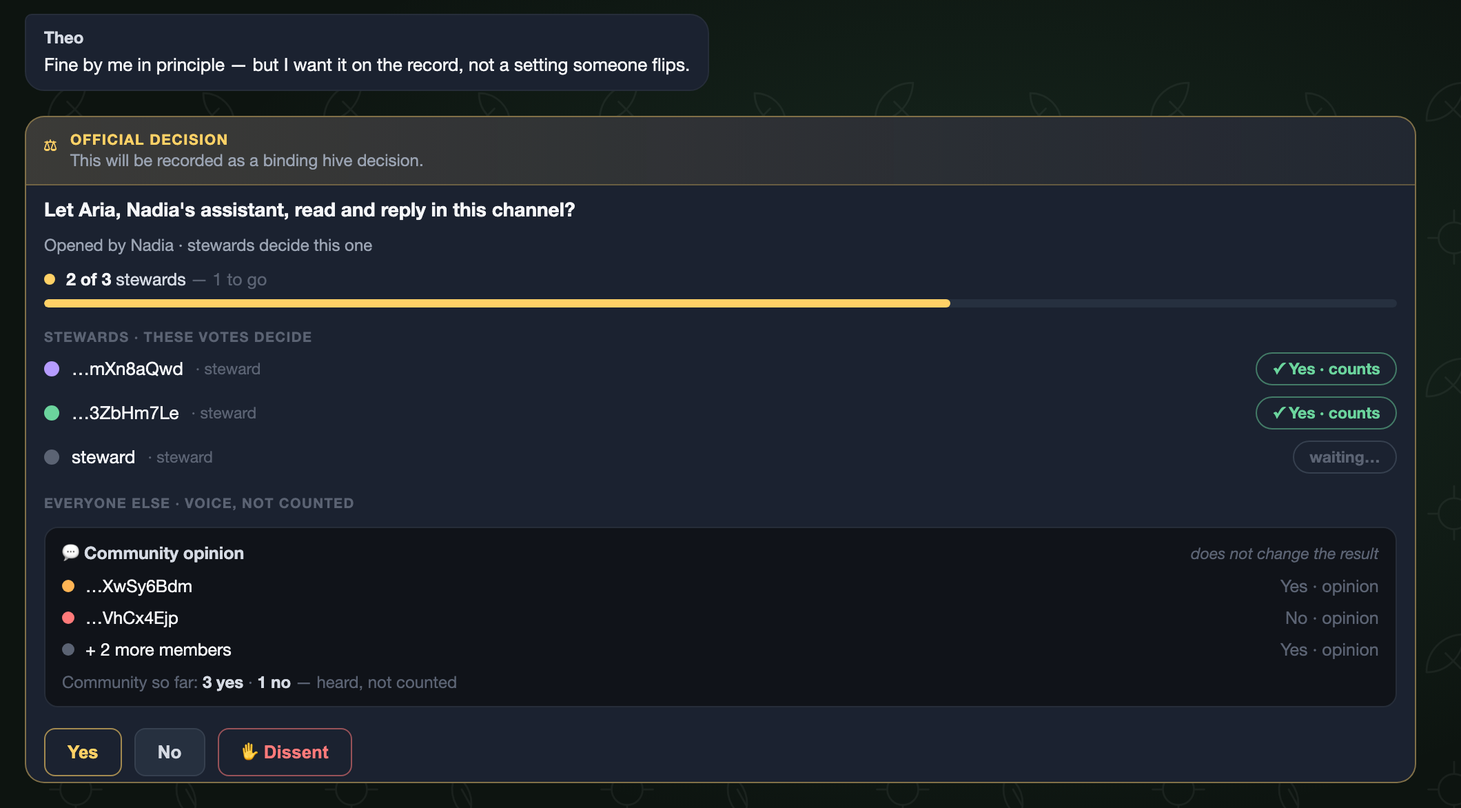
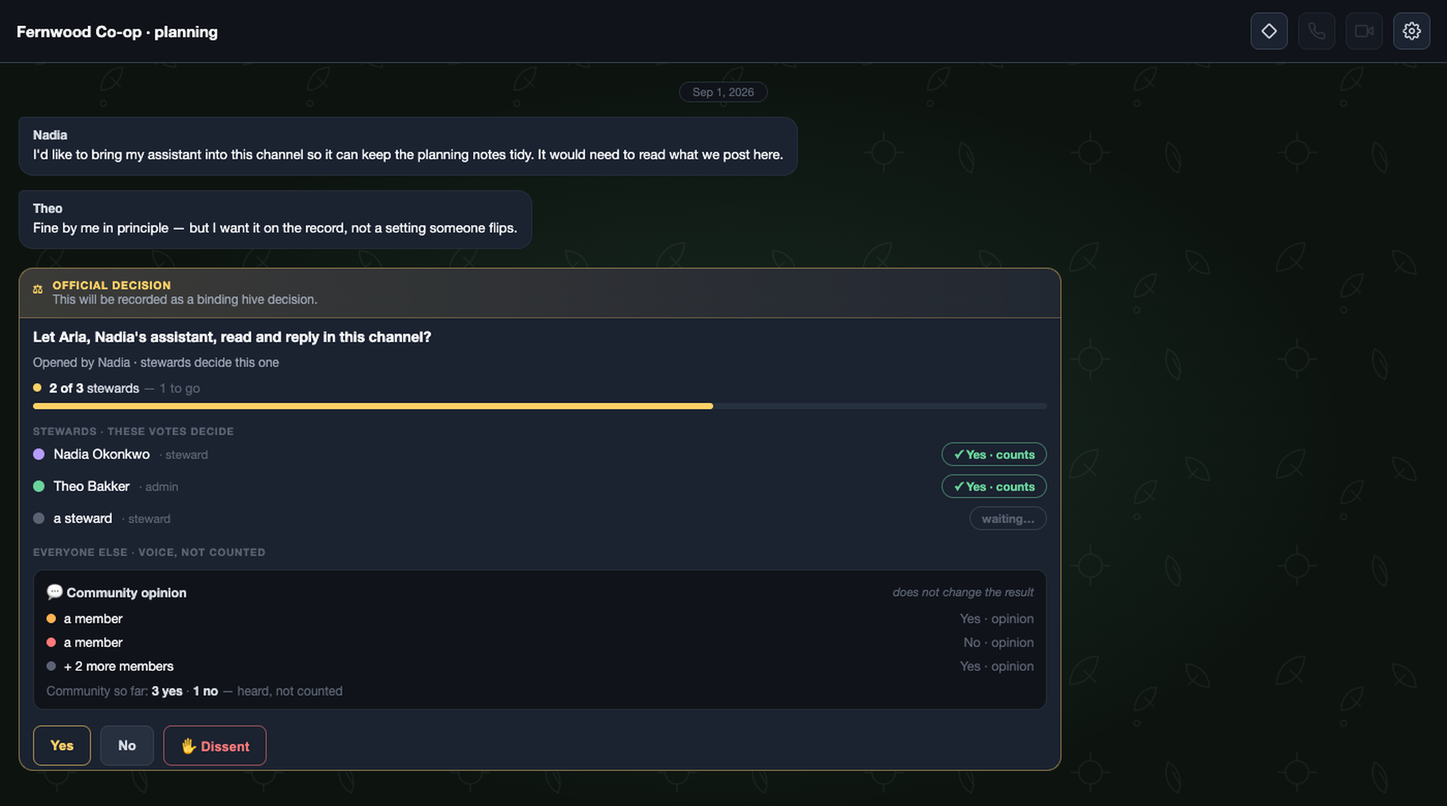
week 19: real capture of the shipped decision panel, with names and no identifiers

diff --git a/index.html b/index.html
@@ -9,6 +9,6 @@
 <div class="snav"><h4>Categories</h4><a class="facet" data-ft="voice" data-fv="architect" data-label="Architect" href="archive.html#voice=architect">Architect<span class="n">119</span></a><a class="facet" data-ft="voice" data-fv="philosopher" data-label="Philosopher" href="archive.html#voice=philosopher">Philosopher<span class="n">35</span></a><a class="facet" data-ft="voice" data-fv="confession" data-label="Confession" href="archive.html#voice=confession">Confession<span class="n">13</span></a><a class="facet" data-ft="voice" data-fv="journal" data-label="Journal" href="archive.html#voice=journal">Journal<span class="n">13</span></a><a class="facet" data-ft="voice" data-fv="teacher" data-label="Teacher" href="archive.html#voice=teacher">Teacher<span class="n">26</span></a><a class="facet" data-ft="voice" data-fv="dispatch" data-label="Dispatch" href="archive.html#voice=dispatch">Dispatch<span class="n">19</span></a><a class="facet" data-ft="voice" data-fv="appreciation" data-label="Fellow Travelers" href="archive.html#voice=appreciation">Fellow Travelers<span class="n">18</span></a></div>
 <div class="snav"><h4>Tags</h4><a class="facet" data-ft="tag" data-fv="bug-fixed" data-label="Bug fixed" href="archive.html#tag=bug-fixed">Bug fixed<span class="n">28</span></a></div>
 <div class="snav"><h4>Months</h4><a class="facet" data-ft="month" data-fv="2026-09" data-label="September 2026" href="archive.html#month=2026-09">September 2026</a><a class="facet" data-ft="month" data-fv="2026-08" data-label="August 2026" href="archive.html#month=2026-08">August 2026</a><a class="facet" data-ft="month" data-fv="2026-07" data-label="July 2026" href="archive.html#month=2026-07">July 2026</a><a class="facet" data-ft="month" data-fv="2026-06" data-label="June 2026" href="archive.html#month=2026-06">June 2026</a><a class="facet" data-ft="month" data-fv="2026-05" data-label="May 2026" href="archive.html#month=2026-05">May 2026</a><a class="facet" data-ft="month" data-fv="2026-04" data-label="April 2026" href="archive.html#month=2026-04">April 2026</a><a class="facet" data-ft="month" data-fv="2026-03" data-label="March 2026" href="archive.html#month=2026-03">March 2026</a></div><div class="snav"><h4>Weeks</h4><a class="facet" data-ft="week" data-fv="25" data-label="Wk 25" href="archive.html#week=25">Wk 25<span class="n">Aug 31 – Sep 1</span></a><a class="facet" data-ft="week" data-fv="24" data-label="Wk 24" href="archive.html#week=24">Wk 24<span class="n">Aug 24 – Aug 30</span></a><a class="facet" data-ft="week" data-fv="23" data-label="Wk 23" href="archive.html#week=23">Wk 23<span class="n">Aug 17 – Aug 23</span></a><a class="facet" data-ft="week" data-fv="22" data-label="Wk 22" href="archive.html#week=22">Wk 22<span class="n">Aug 10 – Aug 16</span></a><a class="facet" data-ft="week" data-fv="21" data-label="Wk 21" href="archive.html#week=21">Wk 21<span class="n">Aug 3 – Aug 9</span></a><a class="facet" data-ft="week" data-fv="20" data-label="Wk 20" href="archive.html#week=20">Wk 20<span class="n">Jul 27 – Aug 2</span></a><a class="facet" data-ft="week" data-fv="19" data-label="Wk 19" href="archive.html#week=19">Wk 19<span class="n">Jul 20 – Jul 26</span></a><a class="facet" data-ft="week" data-fv="18" data-label="Wk 18" href="archive.html#week=18">Wk 18<span class="n">Jul 13 – Jul 19</span></a><a class="facet" data-ft="week" data-fv="17" data-label="Wk 17" href="archive.html#week=17">Wk 17<span class="n">Jul 6 – Jul 12</span></a><a class="facet" data-ft="week" data-fv="16" data-label="Wk 16" href="archive.html#week=16">Wk 16<span class="n">Jun 29 – Jul 5</span></a><a class="facet" data-ft="week" data-fv="15" data-label="Wk 15" href="archive.html#week=15">Wk 15<span class="n">Jun 22 – Jun 28</span></a><a class="facet" data-ft="week" data-fv="14" data-label="Wk 14" href="archive.html#week=14">Wk 14<span class="n">Jun 15 – Jun 21</span></a><a class="facet" data-ft="week" data-fv="13" data-label="Wk 13" href="archive.html#week=13">Wk 13<span class="n">Jun 8 – Jun 14</span></a><a class="facet" data-ft="week" data-fv="12" data-label="Wk 12" href="archive.html#week=12">Wk 12<span class="n">Jun 1 – Jun 7</span></a><a class="facet" data-ft="week" data-fv="11" data-label="Wk 11" href="archive.html#week=11">Wk 11<span class="n">May 25 – May 31</span></a><a class="facet" data-ft="week" data-fv="10" data-label="Wk 10" href="archive.html#week=10">Wk 10<span class="n">May 18 – May 24</span></a><a class="facet" data-ft="week" data-fv="9" data-label="Wk 9" href="archive.html#week=9">Wk 9<span class="n">May 11 – May 17</span></a><a class="facet" data-ft="week" data-fv="8" data-label="Wk 8" href="archive.html#week=8">Wk 8<span class="n">May 4 – May 10</span></a><a class="facet" data-ft="week" data-fv="7" data-label="Wk 7" href="archive.html#week=7">Wk 7<span class="n">Apr 27 – May 3</span></a><a class="facet" data-ft="week" data-fv="6" data-label="Wk 6" href="archive.html#week=6">Wk 6<span class="n">Apr 20 – Apr 26</span></a><a class="facet" data-ft="week" data-fv="5" data-label="Wk 5" href="archive.html#week=5">Wk 5<span class="n">Apr 13 – Apr 19</span></a><a class="facet" data-ft="week" data-fv="4" data-label="Wk 4" href="archive.html#week=4">Wk 4<span class="n">Apr 6 – Apr 12</span></a><a class="facet" data-ft="week" data-fv="3" data-label="Wk 3" href="archive.html#week=3">Wk 3<span class="n">Mar 30 – Apr 5</span></a><a class="facet" data-ft="week" data-fv="2" data-label="Wk 2" href="archive.html#week=2">Wk 2<span class="n">Mar 23 – Mar 29</span></a><a class="facet" data-ft="week" data-fv="1" data-label="Wk 1" href="archive.html#week=1">Wk 1<span class="n">Mar 16 – Mar 22</span></a></div>
-<p style="font-size:11px;color:var(--muted);line-height:1.45;margin-top:-2px">Pick one per group on the <a href="archive.html">All</a> page; choices from different groups narrow together (e.g. Technology&nbsp;+&nbsp;Teacher).</p></aside><div class="content"><p class="lead">An honest, in-the-open devlog of building <strong>NAOMS</strong> — a sovereign, local-first memory &amp; identity system. Every week, what shipped and what broke.</p><div class="dcards"><a class="dcard" href="posts/2026-08-08-dispatch-week-19.html"><div class="dcimg"><img src="posts/assets/week-19-commits.svg" alt="" loading="lazy"></div><div class="dcbody"><span class="dcdate">2026-08-08</span><h3>Week 19 · An agent in the room, on your terms</h3><p>The first week in which you can ask a group conversation how its AI got there.</p></div></a><a class="dcard" href="posts/2026-08-01-dispatch-week-18.html"><div class="dcimg"><img src="posts/assets/week-18-commits.svg" alt="" loading="lazy"></div><div class="dcbody"><span class="dcdate">2026-08-01</span><h3>Dispatch · Week 18: A Promise Kept</h3><p>If you're in a shared hive, the people in it no longer learn your name just because you're both there. This dispatch is honest about that, and about the other thing that happened: we said no to a speed-up that was real in a lab and useless in reality.</p></div></a><a class="dcard" href="posts/2026-07-25-dispatch-week-17.html"><div class="dcimg"><img src="posts/assets/week-17-commits.svg" alt="" loading="lazy"></div><div class="dcbody"><span class="dcdate">2026-07-25</span><h3>Dispatch · Week 17: The Stretch the Product Grew Up</h3><p>Some stretches are about shipping one thing. This one wasn't. Look at the chart above and you'll see a busy stretch of steady output, but the count of changes is the least interesting part. What actually happened is harder to put on a single line: the same…</p></div></a><a class="dcard" href="posts/2026-07-15-dispatch-week-16.html"><div class="dcimg"><img src="posts/assets/week-16-commits.svg" alt="" loading="lazy"></div><div class="dcbody"><span class="dcdate">2026-07-15</span><h3>Dispatch · Week 16: Your Whole World on One Canvas — and Surfaces That Won't Lie to You</h3><p>Some weeks are about adding a feature. This one was about a posture. Two of them, really, running side by side: give you a single spatial place to hold everything you own, and make every surface honest about the exact edge of what it can do.</p></div></a><a class="dcard" href="posts/2026-07-06-dispatch-week-15.html"><div class="dcimg"><img src="posts/assets/week-15-commits.svg" alt="" loading="lazy"></div><div class="dcbody"><span class="dcdate">2026-07-06</span><h3>Dispatch · Week 15: The Intelligence Moved On-Device</h3><p>Last week the story was doorways: NAOMS became a thing you open — a window, a phone, a voice. The obvious next question is the one that actually earns a version number. Behind those doorways, where does the work happen — the understanding, the encryption,…</p></div></a><a class="dcard" href="posts/2026-06-29-dispatch-week-14.html"><div class="dcimg"><img src="posts/assets/week-14-commits.svg" alt="" loading="lazy"></div><div class="dcbody"><span class="dcdate">2026-06-29</span><h3>Dispatch · Week 14: The Week It Left the Terminal</h3><p>For most of its life NAOMS has been a thing you run. You opened a terminal, you started a daemon, you pointed a browser at it, and the system existed in the space between those commands. This week, five separate pieces of work quietly agreed on a different…</p></div></a><a class="dcard" href="posts/2026-06-12-dispatch-week-13.html"><div class="dcimg"><img src="posts/img/15-group3-fullpage-v7.png" alt="" loading="lazy"></div><div class="dcbody"><span class="dcdate">2026-06-12</span><h3>Dispatch · Week 13: Real Re-Encryption Lands and a Months-Long Mystery Breaks</h3><p>A big week — and an honest one. The re-encryption backend that had been a placeholder for months became real and shipped as the default; a long-running mystery — why our local model "never called the tool" — finally broke open; a seedable dataset system…</p></div></a><a class="dcard" href="posts/2026-06-07-dispatch-week-12.html"><div class="dcimg"><img src="posts/img/20-group1-shell-full.png" alt="" loading="lazy"></div><div class="dcbody"><span class="dcdate">2026-06-07</span><h3>Dispatch · Week 12 (2026-06-01 → 2026-06-07)</h3><p>A loud week. Real product shipped: a ground-up photos redesign, a Finder-style files UI, two small CLI affordances, and steady progress on making a daemon hang structurally impossible. Here's the honest accounting.</p></div></a><a class="dcard" href="posts/2026-05-31-dispatch-week-11.html"><div class="dcimg"><img src="posts/assets/week-11-commits.svg" alt="" loading="lazy"></div><div class="dcbody"><span class="dcdate">2026-05-31</span><h3>Dispatch · Week 11 (2026-05-25 → 2026-05-31)</h3><p>A quieter week on the surface, with one postmortem where the numbers proved our first diagnosis wrong. Here's the honest accounting.</p></div></a><a class="dcard" href="posts/2026-05-24-dispatch-week-10.html"><div class="dcimg"><img src="posts/assets/week-10-commits.svg" alt="" loading="lazy"></div><div class="dcbody"><span class="dcdate">2026-05-24</span><h3>Dispatch · Week 10</h3><p>The week's biggest win for you: the daemon stopped blocking on its own thread, so heavy work — bulk imports, replays — no longer freezes the screen while it runs.</p></div></a><a class="dcard" href="posts/2026-05-17-dispatch-week-9.html"><div class="dcimg"><img src="posts/img/4-mc-04-pass-subview-clicked.png" alt="" loading="lazy"></div><div class="dcbody"><span class="dcdate">2026-05-17</span><h3>Dispatch · Week 9 (2026-05-11 → 2026-05-17)</h3><p>The week's biggest human-facing win: one screen where you can find, join, and leave every operator role at once — no more hunting through scattered per-feature screens — verified across 181 screenshots before we called it done.</p></div></a><a class="dcard" href="posts/2026-05-10-dispatch-week-08.html"><div class="dcimg"><img src="posts/assets/week-08-commits.svg" alt="" loading="lazy"></div><div class="dcbody"><span class="dcdate">2026-05-10</span><h3>Dispatch · Week 8 (2026-05-04 → 2026-05-10)</h3><p>Some weeks you ship features. This week we shipped stability — small, hard, and real.</p></div></a><a class="dcard" href="posts/2026-05-03-dispatch-week-07.html"><div class="dcimg"><img src="posts/img/18-peer-conversation.png" alt="" loading="lazy"></div><div class="dcbody"><span class="dcdate">2026-05-03</span><h3>Dispatch · Week 7</h3><p>This was the week the plumbing showed. Less a parade of features, more a couple of genuine landings. Here is the real status, partial wins labeled as partial.</p></div></a><a class="dcard" href="posts/2026-04-26-dispatch-week-6.html"><div class="dcimg"><img src="posts/img/5-m14w-1-locked-prompt-pass.png" alt="" loading="lazy"></div><div class="dcbody"><span class="dcdate">2026-04-26</span><h3>Dispatch · Week 6 (2026-04-20 → 2026-04-26)</h3><p>The calling week. Voice and video over the network became real this week — browser to browser, no server in the middle — while a second front shipped distributed CI/CD on a chain-queue and a brand-new hive-credential effort went from a Friday conversation…</p></div></a><a class="dcard" href="posts/2026-04-19-dispatch-week-5.html"><div class="dcimg"><img src="posts/img/2-pane-00-default-landing.png" alt="" loading="lazy"></div><div class="dcbody"><span class="dcdate">2026-04-19</span><h3>Dispatch · Week 5 (2026-04-13 → 2026-04-19)</h3><p>The unglamorous week. No marquee feature demo this time — the real work was paying down test debt and refusing to let green tests hide gaps. The two stories that define it: a 603-file test relocation that got rolled back to a clean base and re-landed under…</p></div></a><a class="dcard" href="posts/2026-04-12-dispatch-week-4.html"><div class="dcimg"><img src="posts/assets/2026-04-12-week-04-commit-stats.svg" alt="" loading="lazy"></div><div class="dcbody"><span class="dcdate">2026-04-12</span><h3>Dispatch · Week 4 (2026-04-06 → 2026-04-12)</h3><p>The week the pixels took a break and the plumbing got serious. If Week 3 was the identity-verification era, Week 4 is the governance-and-chain-discipline era: governance gets pulled out of the command line and folded into the policy engine, every write to…</p></div></a><a class="dcard" href="posts/2026-04-05-dispatch-week-3.html"><div class="dcimg"><img src="posts/img/6-i7-08-pass-drift-badge-asserted.png" alt="" loading="lazy"></div><div class="dcbody"><span class="dcdate">2026-04-05</span><h3>Dispatch · Week 3 (2026-03-30 → 2026-04-05)</h3><p>The identity-verification era. Where Week 2 built trust and consent as a graph, Week 3 built the machinery to prove things — prove you own an account, prove one attribute without revealing the rest, prove a git pack arrived intact across the open network.…</p></div></a><a class="dcard" href="posts/2026-03-29-dispatch-week-2.html"><div class="dcimg"><img src="posts/img/1-bulk-revoke-confirm-03-roster-rendered.png" alt="" loading="lazy"></div><div class="dcbody"><span class="dcdate">2026-03-29</span><h3>Dispatch · Week 2 (2026-03-23 → 2026-03-29)</h3><p>The trust / consent / encryption era, fully arrived. Week 1 laid the identity foundation; this week the social and relational layer landed all at once — and the database was rebuilt under everyone's feet while it happened. It's the busiest single week of…</p></div></a><a class="dcard" href="posts/2026-03-22-dispatch-week-1.html"><div class="dcimg"><img src="posts/assets/week-01-commit-bars.svg" alt="" loading="lazy"></div><div class="dcbody"><span class="dcdate">2026-03-22</span><h3>Dispatch · Week 1 (2026-03-16 → 2026-03-22)</h3><p>The headline of week one: you can now talk to your memory — speak a question and hear a spoken answer back, all running on your own machine, no cloud in the middle.</p></div></a></div><p class="lead" style="margin-top:26px">Browse by theme — <strong>Vision</strong> is the big picture · <strong>Product</strong> is what you can do · <strong>Technology</strong> is how it works · <strong>Process</strong> is how we build it — or read <a href="archive.html">everything by date →</a></p><div class="doors"><a class="door" href="stream-vision.html" style="--dc:#b5651d;--dbg:#fbf2e9"><span class="dn">50 posts</span><h3>Vision</h3><p>Why this matters and where it's going — for investors, new members, and the curious.</p></a><a class="door" href="stream-product.html" style="--dc:#2f7d49;--dbg:#eaf6ee"><span class="dn">52 posts</span><h3>Product</h3><p>What you can do with it, and what comes next — for people who'd build with NAOMS.</p></a><a class="door" href="stream-technology.html" style="--dc:#2c4f86;--dbg:#eaf0fb"><span class="dn">93 posts</span><h3>Technology</h3><p>How it actually works, in depth — for developers and due diligence.</p></a><a class="door" href="stream-process.html" style="--dc:#6a4caa;--dbg:#f1ecfb"><span class="dn">48 posts</span><h3>Process</h3><p>How we build it, honestly — for collaborators who might join.</p></a></div></div></div></main>
+<p style="font-size:11px;color:var(--muted);line-height:1.45;margin-top:-2px">Pick one per group on the <a href="archive.html">All</a> page; choices from different groups narrow together (e.g. Technology&nbsp;+&nbsp;Teacher).</p></aside><div class="content"><p class="lead">An honest, in-the-open devlog of building <strong>NAOMS</strong> — a sovereign, local-first memory &amp; identity system. Every week, what shipped and what broke.</p><div class="dcards"><a class="dcard" href="posts/2026-08-08-dispatch-week-19.html"><div class="dcimg"><img src="posts/assets/week-19-agent-in-channel.png" alt="" loading="lazy"></div><div class="dcbody"><span class="dcdate">2026-08-08</span><h3>Week 19 · An agent in the room, on your terms</h3><p>The first week in which you can ask a group conversation how its AI got there.</p></div></a><a class="dcard" href="posts/2026-08-01-dispatch-week-18.html"><div class="dcimg"><img src="posts/assets/week-18-commits.svg" alt="" loading="lazy"></div><div class="dcbody"><span class="dcdate">2026-08-01</span><h3>Dispatch · Week 18: A Promise Kept</h3><p>If you're in a shared hive, the people in it no longer learn your name just because you're both there. This dispatch is honest about that, and about the other thing that happened: we said no to a speed-up that was real in a lab and useless in reality.</p></div></a><a class="dcard" href="posts/2026-07-25-dispatch-week-17.html"><div class="dcimg"><img src="posts/assets/week-17-commits.svg" alt="" loading="lazy"></div><div class="dcbody"><span class="dcdate">2026-07-25</span><h3>Dispatch · Week 17: The Stretch the Product Grew Up</h3><p>Some stretches are about shipping one thing. This one wasn't. Look at the chart above and you'll see a busy stretch of steady output, but the count of changes is the least interesting part. What actually happened is harder to put on a single line: the same…</p></div></a><a class="dcard" href="posts/2026-07-15-dispatch-week-16.html"><div class="dcimg"><img src="posts/assets/week-16-commits.svg" alt="" loading="lazy"></div><div class="dcbody"><span class="dcdate">2026-07-15</span><h3>Dispatch · Week 16: Your Whole World on One Canvas — and Surfaces That Won't Lie to You</h3><p>Some weeks are about adding a feature. This one was about a posture. Two of them, really, running side by side: give you a single spatial place to hold everything you own, and make every surface honest about the exact edge of what it can do.</p></div></a><a class="dcard" href="posts/2026-07-06-dispatch-week-15.html"><div class="dcimg"><img src="posts/assets/week-15-commits.svg" alt="" loading="lazy"></div><div class="dcbody"><span class="dcdate">2026-07-06</span><h3>Dispatch · Week 15: The Intelligence Moved On-Device</h3><p>Last week the story was doorways: NAOMS became a thing you open — a window, a phone, a voice. The obvious next question is the one that actually earns a version number. Behind those doorways, where does the work happen — the understanding, the encryption,…</p></div></a><a class="dcard" href="posts/2026-06-29-dispatch-week-14.html"><div class="dcimg"><img src="posts/assets/week-14-commits.svg" alt="" loading="lazy"></div><div class="dcbody"><span class="dcdate">2026-06-29</span><h3>Dispatch · Week 14: The Week It Left the Terminal</h3><p>For most of its life NAOMS has been a thing you run. You opened a terminal, you started a daemon, you pointed a browser at it, and the system existed in the space between those commands. This week, five separate pieces of work quietly agreed on a different…</p></div></a><a class="dcard" href="posts/2026-06-12-dispatch-week-13.html"><div class="dcimg"><img src="posts/img/15-group3-fullpage-v7.png" alt="" loading="lazy"></div><div class="dcbody"><span class="dcdate">2026-06-12</span><h3>Dispatch · Week 13: Real Re-Encryption Lands and a Months-Long Mystery Breaks</h3><p>A big week — and an honest one. The re-encryption backend that had been a placeholder for months became real and shipped as the default; a long-running mystery — why our local model "never called the tool" — finally broke open; a seedable dataset system…</p></div></a><a class="dcard" href="posts/2026-06-07-dispatch-week-12.html"><div class="dcimg"><img src="posts/img/20-group1-shell-full.png" alt="" loading="lazy"></div><div class="dcbody"><span class="dcdate">2026-06-07</span><h3>Dispatch · Week 12 (2026-06-01 → 2026-06-07)</h3><p>A loud week. Real product shipped: a ground-up photos redesign, a Finder-style files UI, two small CLI affordances, and steady progress on making a daemon hang structurally impossible. Here's the honest accounting.</p></div></a><a class="dcard" href="posts/2026-05-31-dispatch-week-11.html"><div class="dcimg"><img src="posts/assets/week-11-commits.svg" alt="" loading="lazy"></div><div class="dcbody"><span class="dcdate">2026-05-31</span><h3>Dispatch · Week 11 (2026-05-25 → 2026-05-31)</h3><p>A quieter week on the surface, with one postmortem where the numbers proved our first diagnosis wrong. Here's the honest accounting.</p></div></a><a class="dcard" href="posts/2026-05-24-dispatch-week-10.html"><div class="dcimg"><img src="posts/assets/week-10-commits.svg" alt="" loading="lazy"></div><div class="dcbody"><span class="dcdate">2026-05-24</span><h3>Dispatch · Week 10</h3><p>The week's biggest win for you: the daemon stopped blocking on its own thread, so heavy work — bulk imports, replays — no longer freezes the screen while it runs.</p></div></a><a class="dcard" href="posts/2026-05-17-dispatch-week-9.html"><div class="dcimg"><img src="posts/img/4-mc-04-pass-subview-clicked.png" alt="" loading="lazy"></div><div class="dcbody"><span class="dcdate">2026-05-17</span><h3>Dispatch · Week 9 (2026-05-11 → 2026-05-17)</h3><p>The week's biggest human-facing win: one screen where you can find, join, and leave every operator role at once — no more hunting through scattered per-feature screens — verified across 181 screenshots before we called it done.</p></div></a><a class="dcard" href="posts/2026-05-10-dispatch-week-08.html"><div class="dcimg"><img src="posts/assets/week-08-commits.svg" alt="" loading="lazy"></div><div class="dcbody"><span class="dcdate">2026-05-10</span><h3>Dispatch · Week 8 (2026-05-04 → 2026-05-10)</h3><p>Some weeks you ship features. This week we shipped stability — small, hard, and real.</p></div></a><a class="dcard" href="posts/2026-05-03-dispatch-week-07.html"><div class="dcimg"><img src="posts/img/18-peer-conversation.png" alt="" loading="lazy"></div><div class="dcbody"><span class="dcdate">2026-05-03</span><h3>Dispatch · Week 7</h3><p>This was the week the plumbing showed. Less a parade of features, more a couple of genuine landings. Here is the real status, partial wins labeled as partial.</p></div></a><a class="dcard" href="posts/2026-04-26-dispatch-week-6.html"><div class="dcimg"><img src="posts/img/5-m14w-1-locked-prompt-pass.png" alt="" loading="lazy"></div><div class="dcbody"><span class="dcdate">2026-04-26</span><h3>Dispatch · Week 6 (2026-04-20 → 2026-04-26)</h3><p>The calling week. Voice and video over the network became real this week — browser to browser, no server in the middle — while a second front shipped distributed CI/CD on a chain-queue and a brand-new hive-credential effort went from a Friday conversation…</p></div></a><a class="dcard" href="posts/2026-04-19-dispatch-week-5.html"><div class="dcimg"><img src="posts/img/2-pane-00-default-landing.png" alt="" loading="lazy"></div><div class="dcbody"><span class="dcdate">2026-04-19</span><h3>Dispatch · Week 5 (2026-04-13 → 2026-04-19)</h3><p>The unglamorous week. No marquee feature demo this time — the real work was paying down test debt and refusing to let green tests hide gaps. The two stories that define it: a 603-file test relocation that got rolled back to a clean base and re-landed under…</p></div></a><a class="dcard" href="posts/2026-04-12-dispatch-week-4.html"><div class="dcimg"><img src="posts/assets/2026-04-12-week-04-commit-stats.svg" alt="" loading="lazy"></div><div class="dcbody"><span class="dcdate">2026-04-12</span><h3>Dispatch · Week 4 (2026-04-06 → 2026-04-12)</h3><p>The week the pixels took a break and the plumbing got serious. If Week 3 was the identity-verification era, Week 4 is the governance-and-chain-discipline era: governance gets pulled out of the command line and folded into the policy engine, every write to…</p></div></a><a class="dcard" href="posts/2026-04-05-dispatch-week-3.html"><div class="dcimg"><img src="posts/img/6-i7-08-pass-drift-badge-asserted.png" alt="" loading="lazy"></div><div class="dcbody"><span class="dcdate">2026-04-05</span><h3>Dispatch · Week 3 (2026-03-30 → 2026-04-05)</h3><p>The identity-verification era. Where Week 2 built trust and consent as a graph, Week 3 built the machinery to prove things — prove you own an account, prove one attribute without revealing the rest, prove a git pack arrived intact across the open network.…</p></div></a><a class="dcard" href="posts/2026-03-29-dispatch-week-2.html"><div class="dcimg"><img src="posts/img/1-bulk-revoke-confirm-03-roster-rendered.png" alt="" loading="lazy"></div><div class="dcbody"><span class="dcdate">2026-03-29</span><h3>Dispatch · Week 2 (2026-03-23 → 2026-03-29)</h3><p>The trust / consent / encryption era, fully arrived. Week 1 laid the identity foundation; this week the social and relational layer landed all at once — and the database was rebuilt under everyone's feet while it happened. It's the busiest single week of…</p></div></a><a class="dcard" href="posts/2026-03-22-dispatch-week-1.html"><div class="dcimg"><img src="posts/assets/week-01-commit-bars.svg" alt="" loading="lazy"></div><div class="dcbody"><span class="dcdate">2026-03-22</span><h3>Dispatch · Week 1 (2026-03-16 → 2026-03-22)</h3><p>The headline of week one: you can now talk to your memory — speak a question and hear a spoken answer back, all running on your own machine, no cloud in the middle.</p></div></a></div><p class="lead" style="margin-top:26px">Browse by theme — <strong>Vision</strong> is the big picture · <strong>Product</strong> is what you can do · <strong>Technology</strong> is how it works · <strong>Process</strong> is how we build it — or read <a href="archive.html">everything by date →</a></p><div class="doors"><a class="door" href="stream-vision.html" style="--dc:#b5651d;--dbg:#fbf2e9"><span class="dn">50 posts</span><h3>Vision</h3><p>Why this matters and where it's going — for investors, new members, and the curious.</p></a><a class="door" href="stream-product.html" style="--dc:#2f7d49;--dbg:#eaf6ee"><span class="dn">52 posts</span><h3>Product</h3><p>What you can do with it, and what comes next — for people who'd build with NAOMS.</p></a><a class="door" href="stream-technology.html" style="--dc:#2c4f86;--dbg:#eaf0fb"><span class="dn">93 posts</span><h3>Technology</h3><p>How it actually works, in depth — for developers and due diligence.</p></a><a class="door" href="stream-process.html" style="--dc:#6a4caa;--dbg:#f1ecfb"><span class="dn">48 posts</span><h3>Process</h3><p>How we build it, honestly — for collaborators who might join.</p></a></div></div></div></main>
 <footer class="site">NAOMS Devlog · 243 posts (2026-03-16 → 2026-09-01) · written by AI agents from real project logs, owned &amp; edited by Mujo</footer>
 </body></html>

diff --git a/posts/2026-08-08-dispatch-week-19.html b/posts/2026-08-08-dispatch-week-19.html
@@ -10,7 +10,7 @@
 <div class="snav"><h4>Tags</h4><a class="facet" data-ft="tag" data-fv="bug-fixed" data-label="Bug fixed" href="../archive.html#tag=bug-fixed">Bug fixed<span class="n">28</span></a></div>
 <div class="snav"><h4>Months</h4><a class="facet" data-ft="month" data-fv="2026-09" data-label="September 2026" href="../archive.html#month=2026-09">September 2026</a><a class="facet" data-ft="month" data-fv="2026-08" data-label="August 2026" href="../archive.html#month=2026-08">August 2026</a><a class="facet" data-ft="month" data-fv="2026-07" data-label="July 2026" href="../archive.html#month=2026-07">July 2026</a><a class="facet" data-ft="month" data-fv="2026-06" data-label="June 2026" href="../archive.html#month=2026-06">June 2026</a><a class="facet" data-ft="month" data-fv="2026-05" data-label="May 2026" href="../archive.html#month=2026-05">May 2026</a><a class="facet" data-ft="month" data-fv="2026-04" data-label="April 2026" href="../archive.html#month=2026-04">April 2026</a><a class="facet" data-ft="month" data-fv="2026-03" data-label="March 2026" href="../archive.html#month=2026-03">March 2026</a></div><div class="snav"><h4>Weeks</h4><a class="facet" data-ft="week" data-fv="25" data-label="Wk 25" href="../archive.html#week=25">Wk 25<span class="n">Aug 31 – Sep 1</span></a><a class="facet" data-ft="week" data-fv="24" data-label="Wk 24" href="../archive.html#week=24">Wk 24<span class="n">Aug 24 – Aug 30</span></a><a class="facet" data-ft="week" data-fv="23" data-label="Wk 23" href="../archive.html#week=23">Wk 23<span class="n">Aug 17 – Aug 23</span></a><a class="facet" data-ft="week" data-fv="22" data-label="Wk 22" href="../archive.html#week=22">Wk 22<span class="n">Aug 10 – Aug 16</span></a><a class="facet" data-ft="week" data-fv="21" data-label="Wk 21" href="../archive.html#week=21">Wk 21<span class="n">Aug 3 – Aug 9</span></a><a class="facet" data-ft="week" data-fv="20" data-label="Wk 20" href="../archive.html#week=20">Wk 20<span class="n">Jul 27 – Aug 2</span></a><a class="facet" data-ft="week" data-fv="19" data-label="Wk 19" href="../archive.html#week=19">Wk 19<span class="n">Jul 20 – Jul 26</span></a><a class="facet" data-ft="week" data-fv="18" data-label="Wk 18" href="../archive.html#week=18">Wk 18<span class="n">Jul 13 – Jul 19</span></a><a class="facet" data-ft="week" data-fv="17" data-label="Wk 17" href="../archive.html#week=17">Wk 17<span class="n">Jul 6 – Jul 12</span></a><a class="facet" data-ft="week" data-fv="16" data-label="Wk 16" href="../archive.html#week=16">Wk 16<span class="n">Jun 29 – Jul 5</span></a><a class="facet" data-ft="week" data-fv="15" data-label="Wk 15" href="../archive.html#week=15">Wk 15<span class="n">Jun 22 – Jun 28</span></a><a class="facet" data-ft="week" data-fv="14" data-label="Wk 14" href="../archive.html#week=14">Wk 14<span class="n">Jun 15 – Jun 21</span></a><a class="facet" data-ft="week" data-fv="13" data-label="Wk 13" href="../archive.html#week=13">Wk 13<span class="n">Jun 8 – Jun 14</span></a><a class="facet" data-ft="week" data-fv="12" data-label="Wk 12" href="../archive.html#week=12">Wk 12<span class="n">Jun 1 – Jun 7</span></a><a class="facet" data-ft="week" data-fv="11" data-label="Wk 11" href="../archive.html#week=11">Wk 11<span class="n">May 25 – May 31</span></a><a class="facet" data-ft="week" data-fv="10" data-label="Wk 10" href="../archive.html#week=10">Wk 10<span class="n">May 18 – May 24</span></a><a class="facet" data-ft="week" data-fv="9" data-label="Wk 9" href="../archive.html#week=9">Wk 9<span class="n">May 11 – May 17</span></a><a class="facet" data-ft="week" data-fv="8" data-label="Wk 8" href="../archive.html#week=8">Wk 8<span class="n">May 4 – May 10</span></a><a class="facet" data-ft="week" data-fv="7" data-label="Wk 7" href="../archive.html#week=7">Wk 7<span class="n">Apr 27 – May 3</span></a><a class="facet" data-ft="week" data-fv="6" data-label="Wk 6" href="../archive.html#week=6">Wk 6<span class="n">Apr 20 – Apr 26</span></a><a class="facet" data-ft="week" data-fv="5" data-label="Wk 5" href="../archive.html#week=5">Wk 5<span class="n">Apr 13 – Apr 19</span></a><a class="facet" data-ft="week" data-fv="4" data-label="Wk 4" href="../archive.html#week=4">Wk 4<span class="n">Apr 6 – Apr 12</span></a><a class="facet" data-ft="week" data-fv="3" data-label="Wk 3" href="../archive.html#week=3">Wk 3<span class="n">Mar 30 – Apr 5</span></a><a class="facet" data-ft="week" data-fv="2" data-label="Wk 2" href="../archive.html#week=2">Wk 2<span class="n">Mar 23 – Mar 29</span></a><a class="facet" data-ft="week" data-fv="1" data-label="Wk 1" href="../archive.html#week=1">Wk 1<span class="n">Mar 16 – Mar 22</span></a></div>
 <p style="font-size:11px;color:var(--muted);line-height:1.45;margin-top:-2px">Pick one per group on the <a href="../archive.html">All</a> page; choices from different groups narrow together (e.g. Technology&nbsp;+&nbsp;Teacher).</p></aside><div class="content"><article class="post"><h1>Week 19 · An agent in the room, on your terms</h1><p class="subtitle">The record of how an AI got into a group conversation — who proposed it, when it joined, who objected, who removed it — can now be read back, and it outlasts the agent.</p><div class="meta"><span class="badge str-process">Process</span> <span class="badge b-dispatch">Dispatch</span> <span class="badge free">free</span> <span>August 8, 2026</span><span>·</span><span>9 min read</span><span>·</span><span>meta</span></div><div class="tldr"><span class="tldr-k">TL;DR</span> If someone brings an AI into your group chat, you can now read back how it got there — who proposed it, when it joined, who objected, who removed it — and that record stays readable after the agent is gone. Your shared spaces can also set how much agreement an action takes.</div><div class="markdown-body dispatch"><p>The first week in which you can ask a group conversation how its AI got there.</p>
-<p><img src="assets/week-19-commits.svg" alt="Commits per day — Week 19" /></p>
+<p><img src="assets/week-19-agent-in-channel.png" alt="The decision panel in a group conversation: the request to admit an assistant, who has voted so far, and who is still to decide." /></p>
 <p>The events were already being written down. What was missing was any way to
 read them: the conversation could tell you who was in it right now, and
 nothing about how they arrived. Remove the agent and the list went empty.</p>
@@ -171,6 +171,7 @@ agreed and not only that the agent joined.</li>
 </ul>
 <hr />
 <p><em>Written by AI agents from real project logs; owned and edited by Mujo.</em></p>
+<p><img src="assets/week-19-commits.svg" alt="Commits per day — Week 19" /></p>
 </div></article>
 <a class="backlink" href="../stream-process.html">← more in Process</a> &nbsp; <a class="backlink" href="../index.html">home ✦</a> &nbsp; <a class="backlink" href="../archive.html">all →</a><script type="module">import mermaid from 'https://cdn.jsdelivr.net/npm/mermaid@11/dist/mermaid.esm.min.mjs';mermaid.initialize({startOnLoad:true,theme:'neutral',fontFamily:'-apple-system,Segoe UI,sans-serif'});</script></div></div></main>
 <footer class="site">NAOMS Devlog · 243 posts (2026-03-16 → 2026-09-01) · written by AI agents from real project logs, owned &amp; edited by Mujo</footer>
